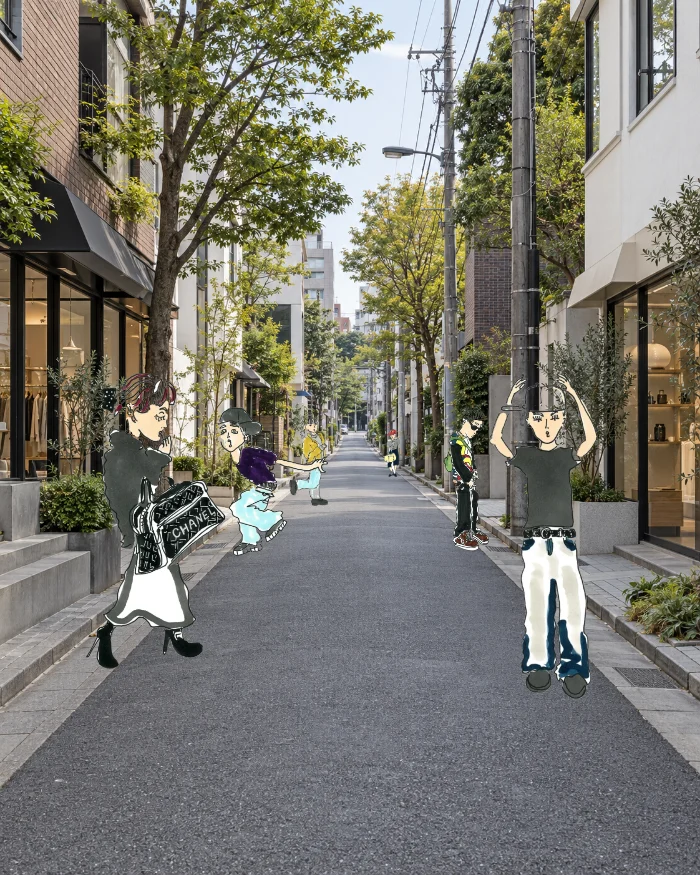
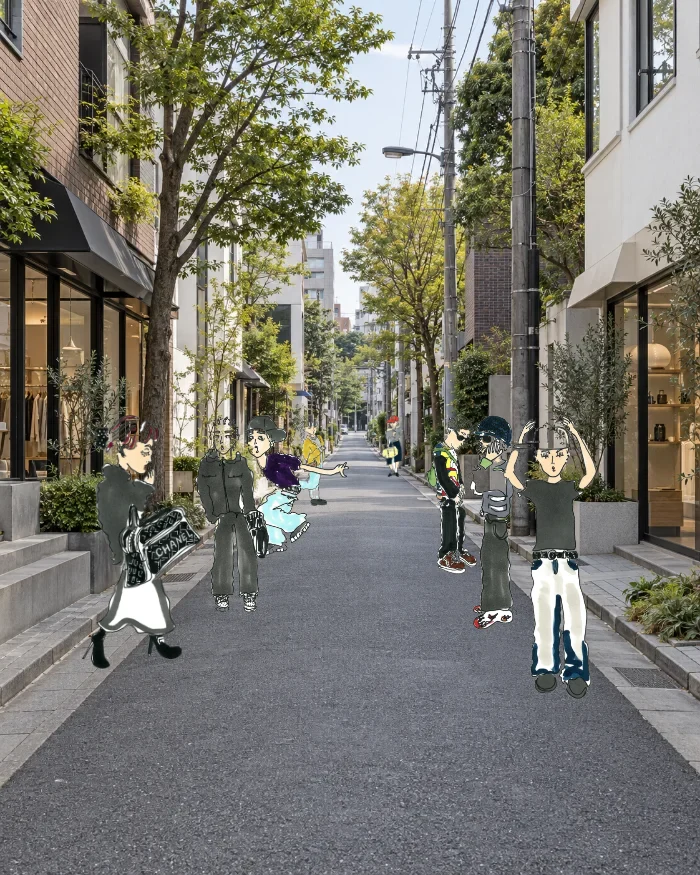
ラスト素材を入れる：街に2人、MORE WORKS に1点
ドライブの「ラスト素材」3点。

人①・人②は白地から切り抜いて HOME の街に焼き込んだ。
縁から白を流し込んで抜いているので、人②の白い上着は残る。
背の高さは h = 足もと - 0.4746 で決めて、頭を水平線にそろえた。

広い画面用は既存6人をそのままに、人①を左手前、人②を右手前へ。
スマホ用は画面いっぱいに出て左右が2割ずつ切れる。見える幅
0.21〜0.79 に6人が詰まっていて空きがないので、人なしの写真から
8人で焼き直した。既存の人も少しずつずらしてある。

IMG_0013 の上段（焼き台をかこむ二人・「さすむし」）は
MORE WORKS の先頭へ。4列の見た目を保つため、出しっぱなしは
4点のままにして1点を「もっと見る」側へ回した。

街の画像はファイル名が同じなので ?v=2 を付けて読み直させる。

Changed region(s): [[0.12, 0.4011, 0.51, 0.7714], [0.54, 0.432, 0.87, 0.8023]]

diff --git a/works/index.html b/works/index.html
@@ -561,6 +561,12 @@ body::after{content:"";position:fixed;inset:0;pointer-events:none;z-index:95;
         <li class="more__it">
           <img class="frame__bg" src="../naoto-assets/gallery/frame-tall.webp" alt="" loading="lazy" decoding="async">
           <span class="frame__win" style="left:16.74418604651163%;top:13.676731793960922%;width:65.81395348837209%;height:71.75843694493783%">
+            <img src="../naoto-works/works/plate-0013@400w.webp" srcset="../naoto-works/works/plate-0013@400w.webp 400w, ../naoto-works/works/plate-0013@600w.webp 600w" alt="焼き台をかこむ二人のイラスト" loading="lazy" decoding="async" sizes="(max-width:760px) 29vw, 15vw">
+          </span>
+        </li>
+        <li class="more__it">
+          <img class="frame__bg" src="../naoto-assets/gallery/frame-tall.webp" alt="" loading="lazy" decoding="async">
+          <span class="frame__win" style="left:16.74418604651163%;top:13.676731793960922%;width:65.81395348837209%;height:71.75843694493783%">
             <img src="../naoto-works/works/plate-8614@400w.webp" srcset="../naoto-works/works/plate-8614@400w.webp 400w, ../naoto-works/works/plate-8614@600w.webp 600w" alt="新郎新婦のイラスト" loading="lazy" decoding="async" sizes="(max-width:760px) 29vw, 15vw">
           </span>
         </li>
@@ -576,7 +582,7 @@ body::after{content:"";position:fixed;inset:0;pointer-events:none;z-index:95;
             <img src="../naoto-works/works/plate-8620@400w.webp" srcset="../naoto-works/works/plate-8620@400w.webp 400w, ../naoto-works/works/plate-8620@600w.webp 600w" alt="向かい合う二人のイラスト" loading="lazy" decoding="async" sizes="(max-width:760px) 29vw, 15vw">
           </span>
         </li>
-        <li class="more__it">
+        <li class="more__it is-rest">
           <img class="frame__bg" src="../naoto-assets/gallery/frame-tall.webp" alt="" loading="lazy" decoding="async">
           <span class="frame__win" style="left:16.74418604651163%;top:13.676731793960922%;width:65.81395348837209%;height:71.75843694493783%">
             <img src="../naoto-works/works/plate-8074@400w.webp" srcset="../naoto-works/works/plate-8074@400w.webp 400w, ../naoto-works/works/plate-8074@600w.webp 600w" alt="スマホを見る二人のイラスト" loading="lazy" decoding="async" sizes="(max-width:760px) 29vw, 15vw">

diff --git a/index.html b/index.html
@@ -416,7 +416,8 @@ addEventListener('load',function(){ clearTimeout(t); setTimeout(go,3500); });
 
   var layers=[].slice.call(g.querySelectorAll('.street i'));
   var small=matchMedia('(max-width:760px)').matches;
-  function src(n){ return 'naoto-assets/street/'+n+(small?'@700w':'')+'.webp'; }
+  /* ?v は焼き直した街を確実に読ませるための番号。焼き直したら上げる */
+  function src(n){ return 'naoto-assets/street/'+n+(small?'@700w':'')+'.webp?v=2'; }
   function load(i){
     var el=layers[i];
     if(!el||el.dataset.loaded) return;
